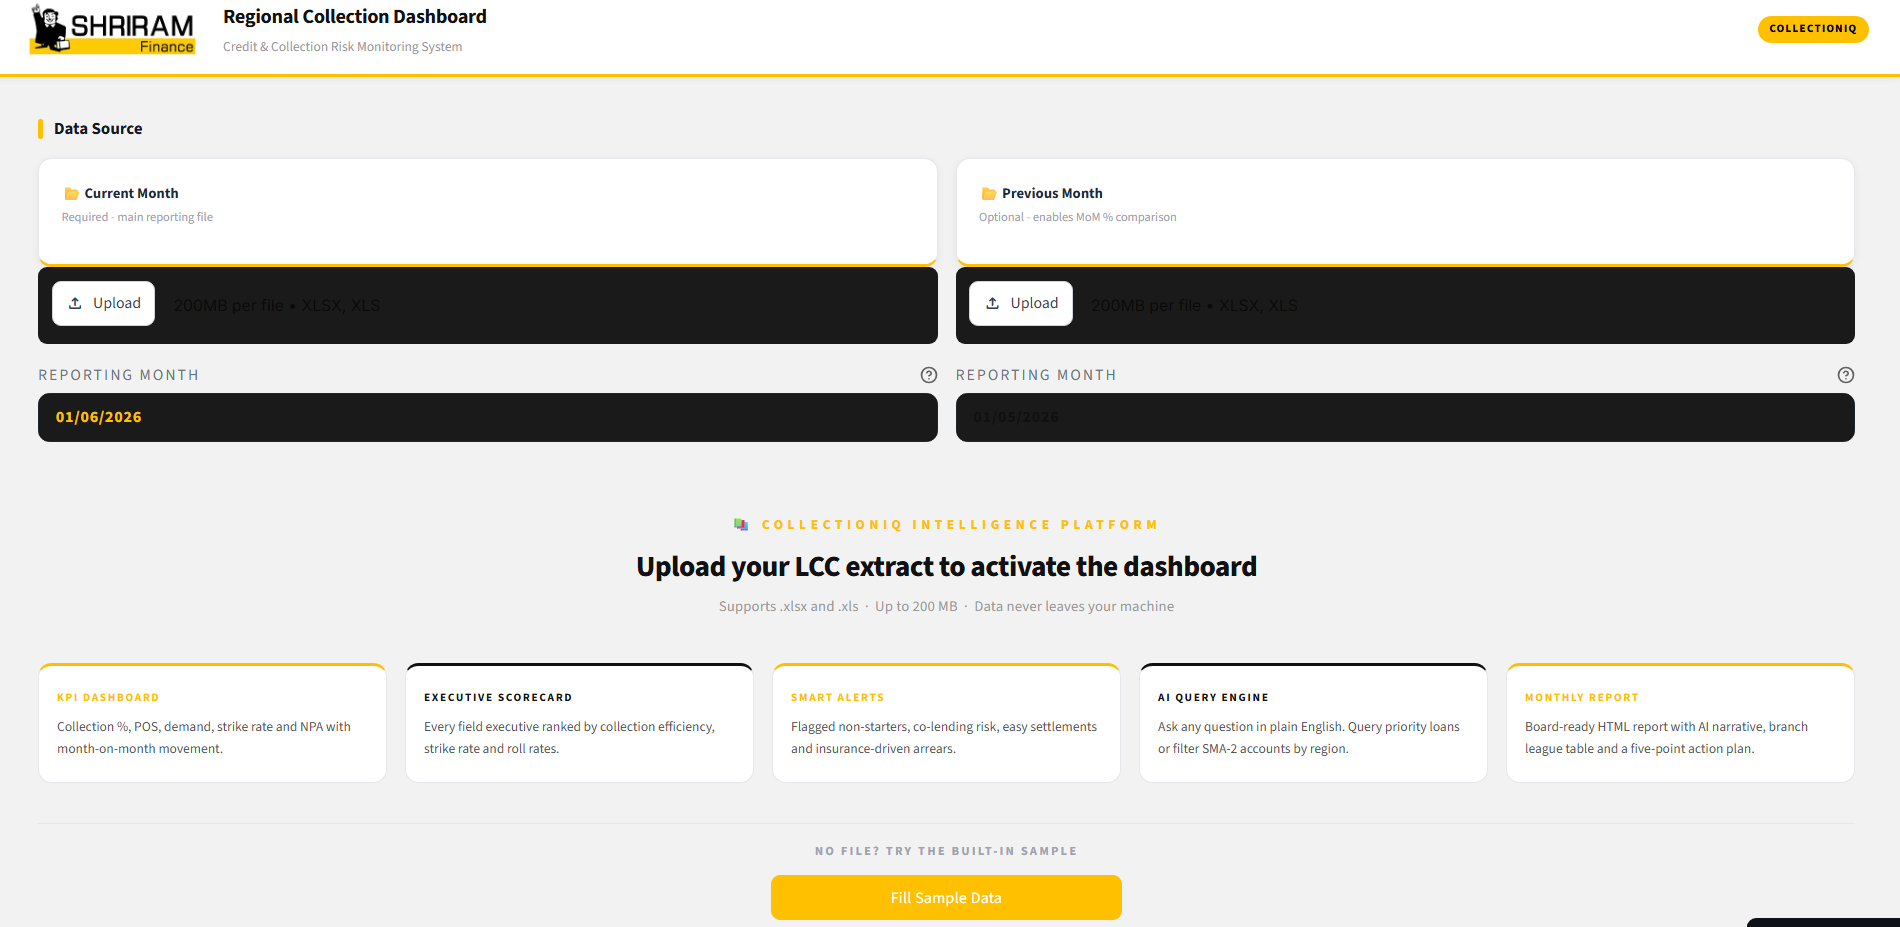
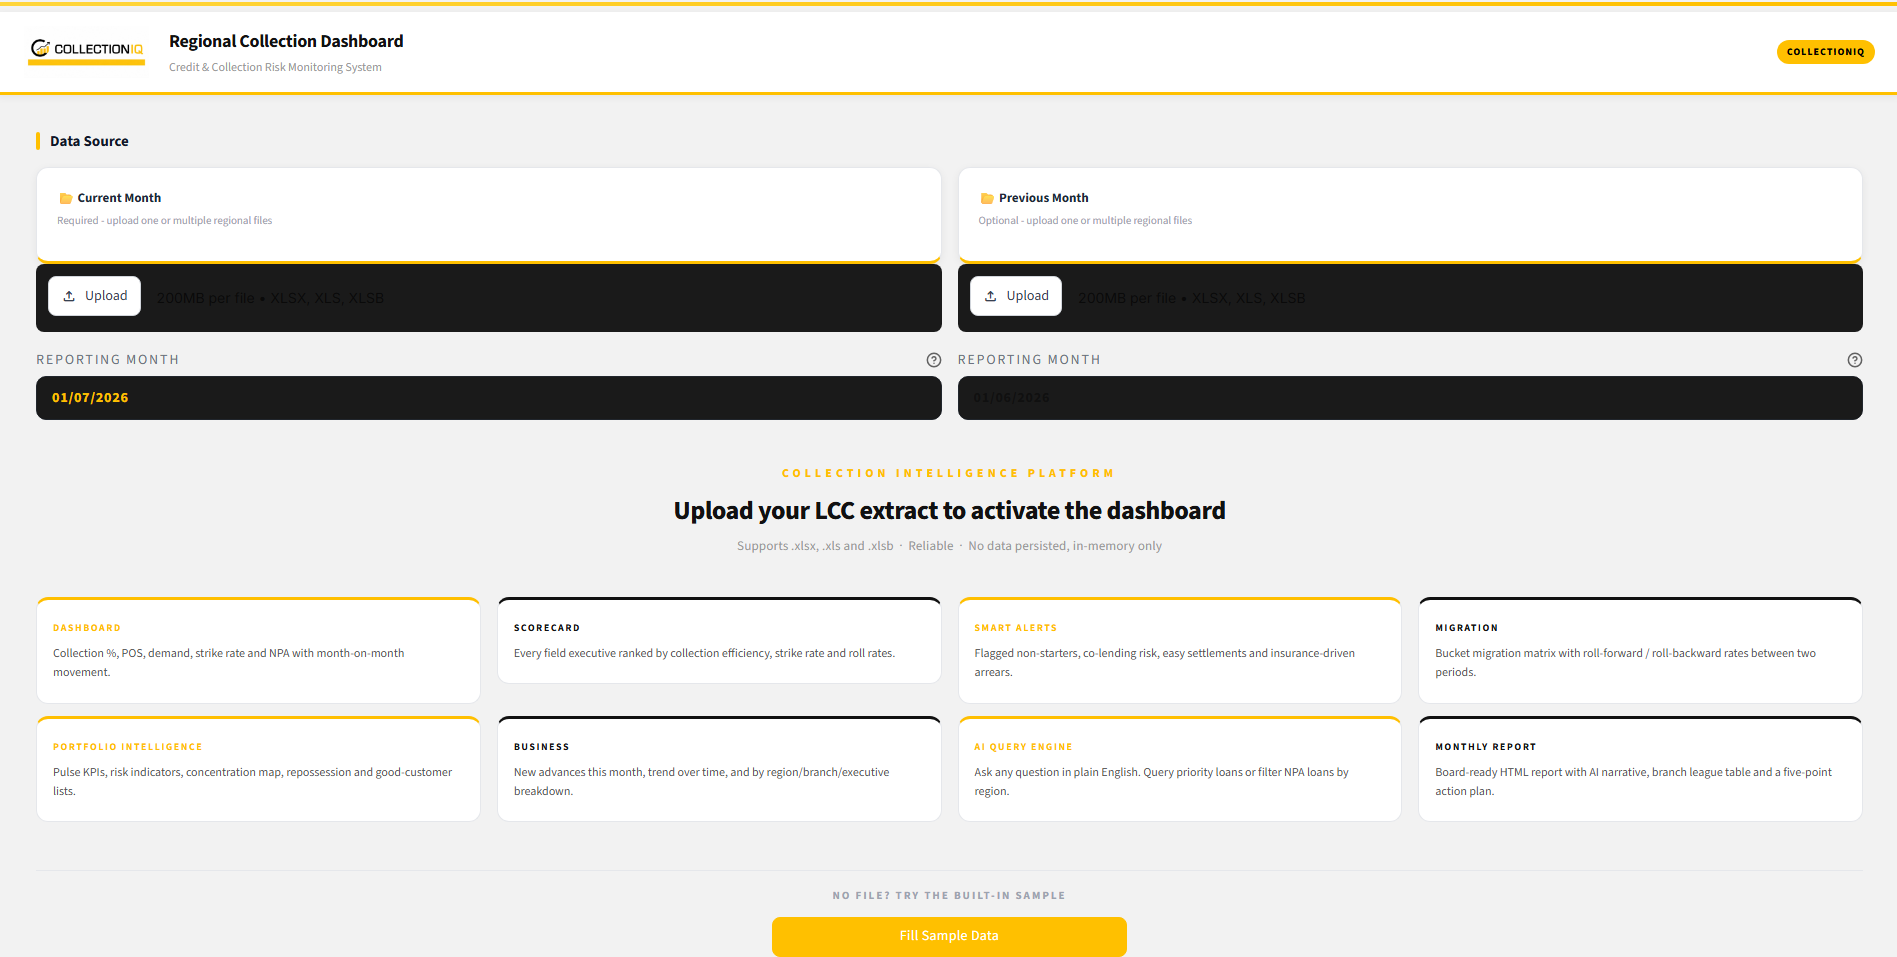
Added new README screenshots

diff --git a/README.md b/README.md
@@ -3,7 +3,7 @@
 ### AI-Powered Portfolio Intelligence for NBFC Collection Leaders
 
 ![Python](https://img.shields.io/badge/Python-3.10+-blue?logo=python&logoColor=white)
-![Streamlit](https://img.shields.io/badge/Streamlit-1.35+-FF4B4B?logo=streamlit&logoColor=white)
+![Streamlit](https://img.shields.io/badge/Streamlit-1.59.0-FF4B4B?logo=streamlit&logoColor=white)
 ![Gemini](https://img.shields.io/badge/Google%20Gemini-2.5%20Flash%20Lite-4285F4?logo=google&logoColor=white)
 ![LangGraph](https://img.shields.io/badge/LangGraph-0.2+-green)
 &nbsp;
@@ -48,79 +48,138 @@ No data? No setup? Click **Fill Sample Data** on the landing page. It fetches a 
 
 **Dashboard - KPIs and portfolio health with Month-on-Month movement**
 
-![KPI Dashboard](docs/screenshots/02-kpi-dashboard.png)
+![Dashboard](docs/screenshots/02-dashboard.png)
 &nbsp;
 
-**Portfolio Analysis - DPD bucket distribution, branch collection %, arrears exposure**
+**Executive Scorecard - Every field executive ranked by collection %, strike rate, NPA count and roll rates**
 
-![Portfolio Analysis](docs/screenshots/03-portfolio-analysis.png)
+![Scorecard](docs/screenshots/03-scorecard.png)
+&nbsp;
+
+**Smart Alerts - automatic risk flags with SOH exposure and recommended actions**
+
+![Alerts](docs/screenshots/04-alerts.png)
+&nbsp;
+
+**Bucket Migration - Roll-forward / roll-backward rates and the prev-month → curr-month migration matrix**
+
+![Migration](docs/screenshots/05-migration.png)
+&nbsp;
+
+**Portfolio Intelligence - Pulse KPIs, region/branch scorecards, risk indicators, fleet exposure, and more, across 8 sections**
+
+![Portfolio Pulse - headline KPIs, bucket distribution, roll rates](docs/screenshots/06-portfolio-intelligence-1.png)
 &nbsp;
 
 <table>
 <tr>
 <td width="50%">
 
-**Executive Scorecard - Every field executive ranked by collection %, strike rate, NPA count and roll rates**
+**Who Needs Attention - NPA & SMA-2 comparison by branch**
 
-
-![Executive Scorecard](docs/screenshots/04-executive-scorecard.png)
+![Who Needs Attention](docs/screenshots/07-portfolio-intelligence-2.png)
 
 </td>
 <td width="50%">
 
-**Smart Alerts - 6 automatic risk flags with SOH exposure and recommended actions**
+**The Honest Mirror - good/bad verdict + risk flag deep dive**
 
-
-![Smart Alerts](docs/screenshots/05-smart-alerts.png)
+![Honest Mirror](docs/screenshots/08-portfolio-intelligence-3.png)
 
 </td>
 </tr>
 <tr>
 <td width="50%">
 
-**Bucket Migration - Roll-forward / roll-backward rates and the prev-month → curr-month migration matrix**
+**Sourcing & Product Analysis + is the risk profile changing?**
 
-
-![Bucket Migration](docs/screenshots/06-migration.png)
+![Sourcing and Risk Profile](docs/screenshots/09-portfolio-intelligence-4.png)
 
 </td>
 <td width="50%">
 
-**Monthly Portfolio Intelligence Report - board-ready HTML report with narrative, rankings and action plan**
+**Concentration & Exposure Map + top at-risk accounts**
 
+![Concentration Map](docs/screenshots/10-portfolio-intelligence-5.png)
 
-![Monthly Report](docs/screenshots/10-report.png)
+</td>
+</tr>
+<tr>
+<td width="50%">
+
+**Repossession Priority List**
+
+![Repossession List](docs/screenshots/11-portfolio-intelligence-6.png)
+
+</td>
+<td width="50%">
+
+**Good Customers - refinance & relationship candidates**
+
+![Good Customers](docs/screenshots/12-portfolio-intelligence-7.png)
 
 </td>
 </tr>
 </table>
+&nbsp;
+
+**Business - New advances (originations), trend and by-dimension breakdowns, disbursement vintage**
+
+![New Advances This Month](docs/screenshots/13-business-1.png)
+&nbsp;
+
+<table>
+<tr>
+<td width="50%">
+
+**New Advances Trend - accounts & funded amount by period**
+
+![New Advances Trend](docs/screenshots/14-business-2.png)
+
+</td>
+<td width="50%">
+
+**New Advances by Region/Branch/Executive**
+
+![By Dimension](docs/screenshots/15-business-3.png)
+
+</td>
+</tr>
+</table>
+
+**Disbursement Vintage - NPA%/SMA-2% by disbursement cohort**
+
+![Disbursement Vintage](docs/screenshots/16-business-4.png)
 &nbsp;
 
 **AI Query Assistant - Plain English queries powered by Gemini 2.5 Flash-Lite + LangGraph**
 
-![AI Query](docs/screenshots/07-ai-query.png)
+![Ask a question in plain English](docs/screenshots/17-ai-query-1.png)
 &nbsp;
 
 <table>
 <tr>
 <td width="50%">
 
-**AI Query summary - top regions, branches, executives and bucket distribution for the matched accounts**
+**KPI summary + region/branch/executive breakdown for the matched accounts**
 
-
-![Customer Table](docs/screenshots/09-customer-table.png)
+![Query KPI Summary](docs/screenshots/18-ai-query-2.png)
 
 </td>
 <td width="50%">
 
-**AI Queried table Observations - domain-aware narrative generated for every query result**
+**Matching accounts table + AI-generated observations**
 
-
-![AI Observations](docs/screenshots/08-ai-observations.png)
+![Matching Accounts and Observations](docs/screenshots/19-ai-query-3.png)
 
 </td>
 </tr>
 </table>
+&nbsp;
+
+**Monthly Portfolio Intelligence Report - board-ready HTML report with narrative, rankings and action plan**
+
+![Report](docs/screenshots/20-report.png)
 &nbsp;
 
 
@@ -176,6 +235,7 @@ With CollectionIQ, the same question is answered in under 30 seconds by the lead
 | Manual Excel work for breakdowns | Instant filtered results with AI observations |
 | Subjective account prioritisation | Seven-tier data-driven priority framework |
 | Month-end reports for portfolio health | Real-time bucket migration and alerts on every upload |
+| Every click on a 60k-row portfolio felt like a fresh page load (~26s) | Same interaction now returns in well under a second, measured on real data |
 &nbsp;
 
 ## Architecture
